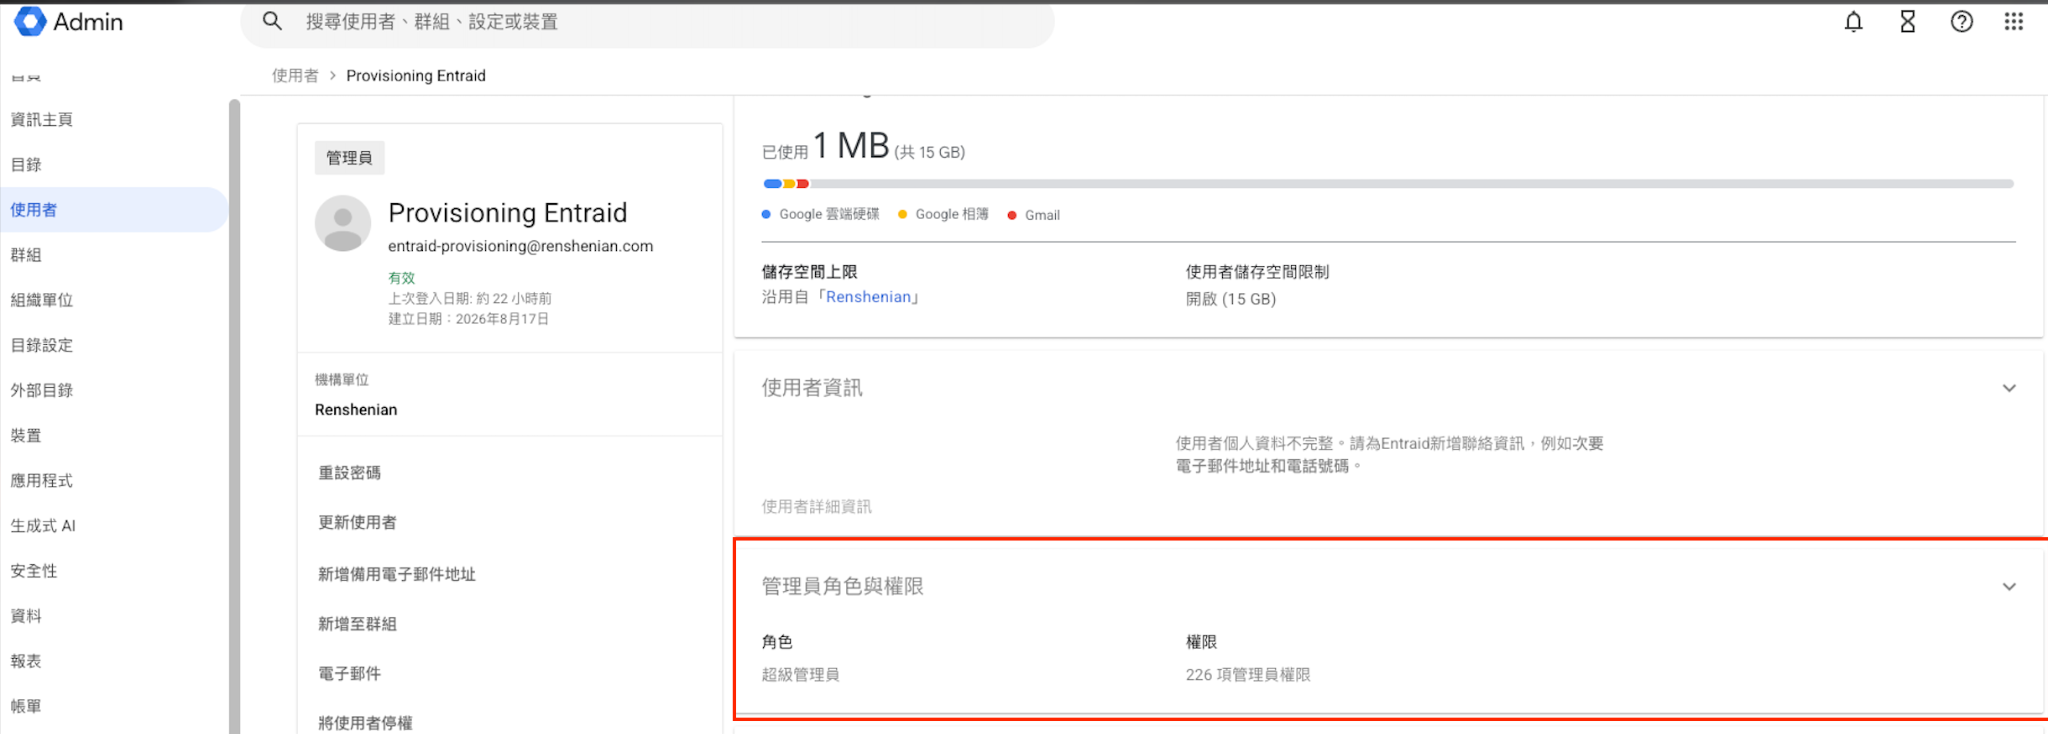
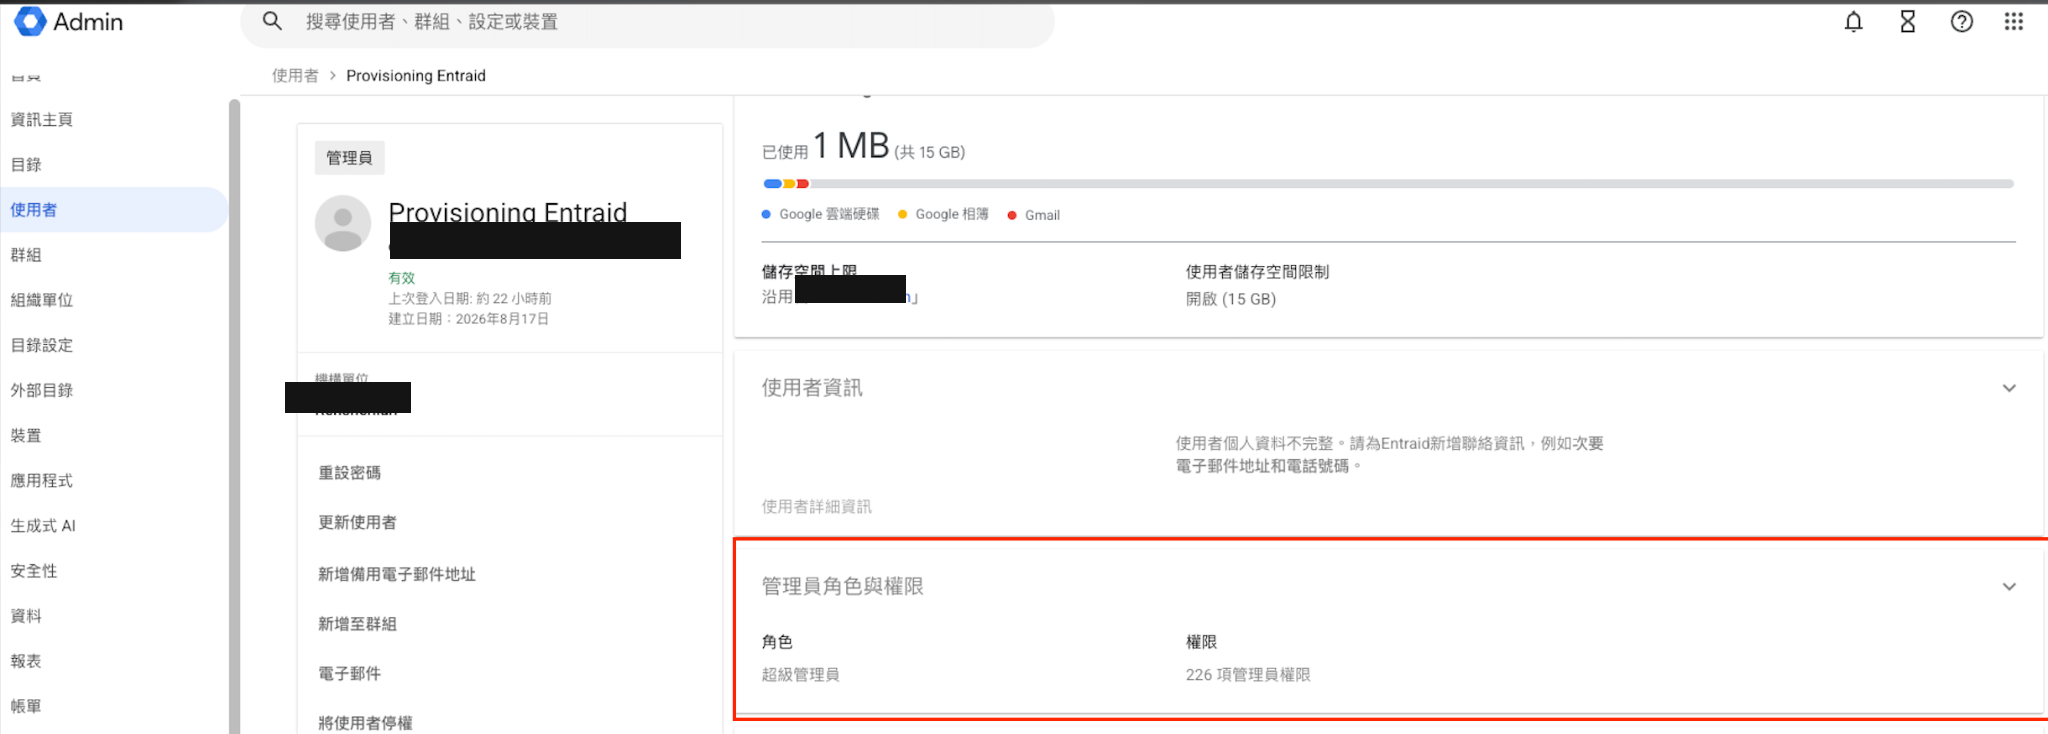
遮蔽截圖中的真實識別資訊並修正圖片對應錯位
打馬賽克涵蓋租戶 ID、應用程式/物件識別碼、真實網域 renshenian.com、
真實姓名、憑證指紋、SAML 端點等敏感資訊，為公開 repo 做準備。
過程中也發現並修正 3 張截圖與其說明文字對應錯位的問題（重新核對
每張圖片實際內容後修正檔名、順序與 README 圖片參照）。

Changed region(s): [[0.1875, 0.2997, 0.3438, 0.3597], [0.125, 0.5095, 0.2188, 0.5695], [0.375, 0.3597, 0.4688, 0.4196]]

diff --git a/README.md b/README.md
@@ -291,17 +291,19 @@ Google Cloud (SSO)
 
    ![屬性與宣告編輯連結](images/33-entra-屬性與宣告編輯連結.png)
 
-2. 將「其他宣告」底下的預設內容都移除，「必要的宣告」只留下「唯一使用者識別碼 (名稱識別碼)」。
+2. 將「其他宣告」底下的預設內容都移除，「必要的宣告」只留下「唯一使用者識別碼 (名稱識別碼)」。確認畫面應如下所示：
+
+   ![屬性與宣告確認畫面](images/34-entra-屬性與宣告確認畫面.png)
 
 3. 進入「唯一使用者識別碼 (名稱識別碼)」編輯頁面。若 Entra ID 網域與 Google Cloud Identity 網域**不一致**，需要額外設定轉換規則：來源選擇「轉換」，轉換方式選 `Join()`，參數 1 填入來源屬性（例如 `user.userprincipalname`）、分隔符號填 `@`，參數 2 的「屬性名稱」填入 Google Cloud Identity 的網域。設定完成後點選相關的新增／儲存按鈕。
 
-   ![唯一使用者識別碼轉換設定](images/34-entra-唯一使用者識別碼轉換設定.png)
+   ![唯一使用者識別碼轉換設定](images/35-entra-唯一使用者識別碼轉換設定.png)
 
 ### 步驟 5：下載憑證並取得安裝資訊
 
 點選「SAML 憑證」區塊中「憑證 (Base64)」下載，並記下底下「安裝 Google Cloud (SSO)」區塊列出的三組網址（**登入 URL**、**Microsoft Entra 識別碼**、**登出 URL**），稍後在 Google Cloud Identity 設定中會用到。
 
-![SAML 憑證下載與安裝資訊](images/35-entra-saml憑證下載與安裝資訊.png)
+![SAML 憑證下載與安裝資訊](images/36-entra-saml憑證下載與安裝資訊.png)
 
 ### 步驟 6：回到 Google Cloud Identity 完成 SSO 設定檔
 
@@ -315,19 +317,19 @@ Google Cloud (SSO)
 
 完成後點選「儲存」。
 
-![Cloud Identity IDP 詳細資料表單](images/36-cloudidentity-idp詳細資料表單.png)
+![Cloud Identity IDP 詳細資料表單](images/37-cloudidentity-idp詳細資料表單.png)
 
 ### 步驟 7：指派 SSO 設定檔
 
 1. 在「管理單一登入 (SSO) 設定檔指派作業」區塊，設定哪一個機構單位要套用哪一個 SSO 設定檔。若不指定，預設會是整個組織套用同一個 SSO 設定檔。
 
-   ![SSO 設定檔指派作業](images/37-cloudidentity-sso設定檔指派作業.png)
+   ![SSO 設定檔指派作業](images/38-cloudidentity-sso設定檔指派作業.png)
 
    > 依照〔開始之前〕的建議，若佈建專用帳號有獨立的機構單位，記得在這裡把該機構單位的 SSO 設定檔指派為「無」，避免佈建帳號被強制導向 SSO 登入。
 
 2. 指派設定頁面中，預設選擇「讓 Google 提醒他們輸入使用者名稱，然後將他們重新導向這個設定檔的 IdP 登入頁面」，維持這個選項即可。
 
-   ![登入重新導向選項](images/38-cloudidentity-登入重新導向選項.png)
+   ![登入重新導向選項](images/39-cloudidentity-登入重新導向選項.png)
 
 完成以上設定後，就可以透過 Entra ID SSO 登入 Google Cloud Console。**別忘了 Google Cloud 的 IAM 仍然要另外指派角色給使用者或群組**，SSO 只解決「登入驗證」，不會自動給予 GCP 資源的存取權限。
 
@@ -335,7 +337,7 @@ Google Cloud (SSO)
 
 如果除了 Google Cloud Console 之外，還要讓使用者透過同一組 SSO 登入其他 Google 服務（例如 Gemini Enterprise、Google 文件、Gmail 等），需要依照下表，把對應服務的網址設定成 Entra ID SSO 應用程式的「登入 URL」（可依需要建立多個 SSO 應用程式或另外設定重新導向規則），表中 `DOMAIN` 需替換為實際網域：
 
-![各服務網域專屬網址對照表](images/39-cloudidentity-各服務網域專屬網址對照表.png)
+![各服務網域專屬網址對照表](images/40-cloudidentity-各服務網域專屬網址對照表.png)
 
 ---
 
@@ -343,7 +345,7 @@ Google Cloud (SSO)
 
 都設定完成後，從一般 Google Cloud 登入介面輸入 email 帳號，就會自動導向 Microsoft 的登入驗證畫面。
 
-![Microsoft 登入畫面](images/40-microsoft-登入畫面.png)
+![Microsoft 登入畫面](images/41-microsoft-登入畫面.png)
 
 > ⚠ **網域不一致時的登入注意事項**：如果 Google Cloud Identity 網域跟 Entra ID 網域不一樣，在 Google Cloud 登入畫面要輸入 **Cloud Identity 網域**的 email 帳號；轉導到 Microsoft 登入畫面後，則要輸入 **Entra ID 網域**的 email 帳號，才能成功轉導登入。
 
